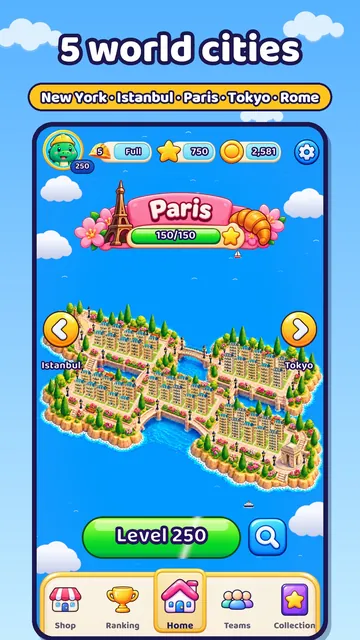
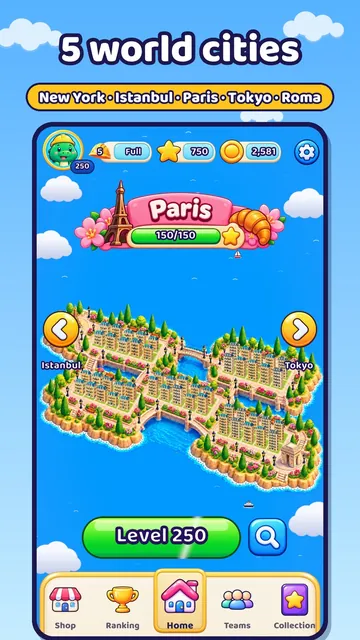
Crane City page: Roma as in the game, screenshot caption updated
- City names stay the same in every language in the game, so the English page says Roma, not Rome
- Screenshot 6 (EN) re-exported from the store screenshot with the Roma caption

Changed region(s): [[0.0611, 0.0312, 0.7333, 0.1875], [0.6417, 0.125, 0.9472, 0.1875], [0.7639, 0.0625, 0.8556, 0.0938]]

diff --git a/crane-city/index.html b/crane-city/index.html
@@ -4,7 +4,7 @@
 <meta charset="utf-8">
 <meta name="viewport" content="width=device-width, initial-scale=1">
 <title>Crane City: Stack &amp; Build, a block-stacking city game</title>
-<meta name="description" content="Drop blocks from the crane, stack them high and build world-famous cities! 250 levels in New York, Istanbul, Paris, Tokyo and Rome. Coming soon to Google Play.">
+<meta name="description" content="Drop blocks from the crane, stack them high and build world-famous cities! 250 levels in New York, Istanbul, Paris, Tokyo and Roma. Coming soon to Google Play.">
 <link rel="canonical" href="https://retiverse.com/crane-city/">
 <link rel="alternate" hreflang="en" href="https://retiverse.com/crane-city/">
 <link rel="alternate" hreflang="tr" href="https://retiverse.com/tr/crane-city/">
@@ -22,7 +22,7 @@
 <meta property="og:type" content="website">
 <meta property="og:site_name" content="Retiverse Games">
 <meta property="og:title" content="Crane City: Stack &amp; Build">
-<meta property="og:description" content="Drop blocks from the crane, stack them high and build world-famous cities! 250 levels in New York, Istanbul, Paris, Tokyo and Rome. Coming soon to Google Play.">
+<meta property="og:description" content="Drop blocks from the crane, stack them high and build world-famous cities! 250 levels in New York, Istanbul, Paris, Tokyo and Roma. Coming soon to Google Play.">
 <meta property="og:url" content="https://retiverse.com/crane-city/">
 <meta property="og:image" content="https://retiverse.com/assets/img/crane-city/og-en.jpg">
 <meta property="og:image:width" content="1200">
@@ -32,7 +32,7 @@
 <meta property="og:locale:alternate" content="tr_TR">
 <meta name="twitter:card" content="summary_large_image">
 <meta name="twitter:title" content="Crane City: Stack &amp; Build">
-<meta name="twitter:description" content="Drop blocks from the crane, stack them high and build world-famous cities! 250 levels in New York, Istanbul, Paris, Tokyo and Rome. Coming soon to Google Play.">
+<meta name="twitter:description" content="Drop blocks from the crane, stack them high and build world-famous cities! 250 levels in New York, Istanbul, Paris, Tokyo and Roma. Coming soon to Google Play.">
 <meta name="twitter:image" content="https://retiverse.com/assets/img/crane-city/og-en.jpg">
 <script type="application/ld+json">{"@context":"https://schema.org","@graph":[{"@type":"MobileApplication","@id":"https://retiverse.com/crane-city/#app","name":"Crane City: Stack & Build","alternateName":"Crane City","url":"https://retiverse.com/crane-city/","description":"Drop blocks from the crane, stack them high and build world-famous cities!","operatingSystem":"Android","applicationCategory":"GameApplication","image":"https://retiverse.com/assets/img/crane-city/icon-512.png","screenshot":["https://retiverse.com/assets/img/crane-city/shot-en-1-720.webp","https://retiverse.com/assets/img/crane-city/shot-en-2-720.webp","https://retiverse.com/assets/img/crane-city/shot-en-3-720.webp","https://retiverse.com/assets/img/crane-city/shot-en-4-720.webp","https://retiverse.com/assets/img/crane-city/shot-en-5-720.webp","https://retiverse.com/assets/img/crane-city/shot-en-6-720.webp","https://retiverse.com/assets/img/crane-city/shot-en-7-720.webp"],"inLanguage":["en","tr","de","es","fr","pt","it"],"isAccessibleForFree":true,"offers":{"@type":"Offer","price":"0","priceCurrency":"USD"},"publisher":{"@type":"Organization","@id":"https://retiverse.com/#organization","name":"Retiverse Games","url":"https://retiverse.com/"},"author":{"@id":"https://retiverse.com/#organization"},"privacyPolicy":"https://retiverse.com/crane-city/privacy/"},{"@type":"BreadcrumbList","itemListElement":[{"@type":"ListItem","position":1,"name":"Home","item":"https://retiverse.com/"},{"@type":"ListItem","position":2,"name":"Crane City","item":"https://retiverse.com/crane-city/"}]}]}</script>
 <script src="/assets/js/site.js?v=060f2481" defer></script>
@@ -112,7 +112,7 @@
       <li class="feature">
         <span class="feature-icon" aria-hidden="true">🌍</span>
         <h3>Build the world's most famous cities</h3>
-        <p>From New York to Istanbul, from Paris to Tokyo and on to Rome… Build your own city across 250 levels in the shadow of the Statue of Liberty, Galata Tower, the Eiffel Tower, Tokyo Tower and the Colosseum. Every level you beat adds a new building to your map!</p>
+        <p>From New York to Istanbul, from Paris to Tokyo and on to Roma… Build your own city across 250 levels in the shadow of the Statue of Liberty, Galata Tower, the Eiffel Tower, Tokyo Tower and the Colosseum. Every level you beat adds a new building to your map!</p>
         
       </li>
       <li class="feature">
@@ -160,7 +160,7 @@
       <li class="city tone-ist"><span class="city-no">2</span><strong>Istanbul</strong><span>Galata Tower</span></li>
       <li class="city tone-par"><span class="city-no">3</span><strong>Paris</strong><span>Eiffel Tower</span></li>
       <li class="city tone-tok"><span class="city-no">4</span><strong>Tokyo</strong><span>Tokyo Tower</span></li>
-      <li class="city tone-rom"><span class="city-no">5</span><strong>Rome</strong><span>Colosseum</span></li>
+      <li class="city tone-rom"><span class="city-no">5</span><strong>Roma</strong><span>Colosseum</span></li>
     </ol>
   </div>
 </section>
